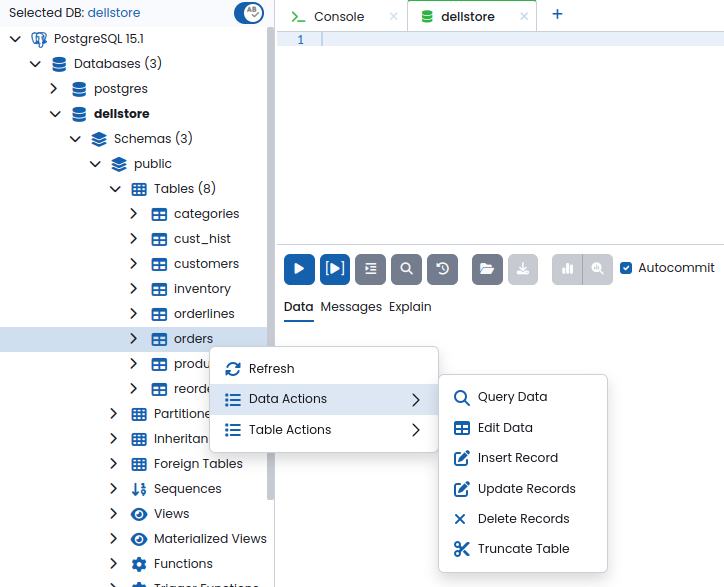
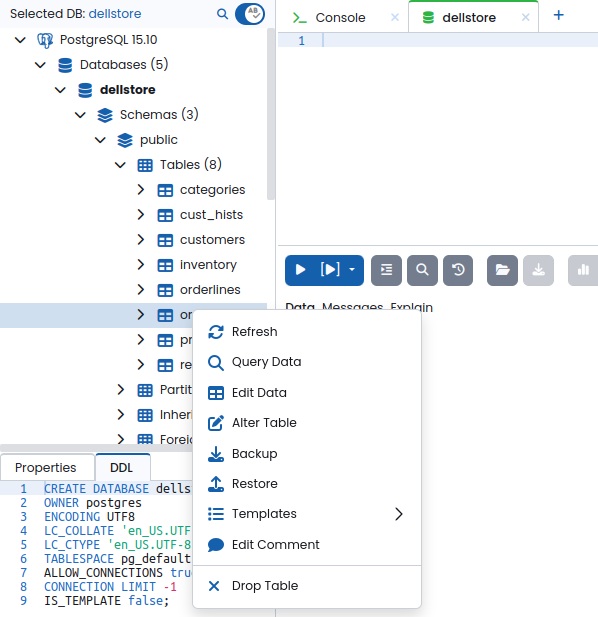
update docs with 1.4.1 features, improve formatting and readability update screenshots where necessary

Changed region(s): [[0.0, 0.0, 1.0, 1.0]]

diff --git a/src/en/03_user_guide.md b/src/en/03_user_guide.md
@@ -4,44 +4,49 @@
 
 ---
 
-## Database Tree and Context Menus
+## Database Explorer and Context Menus
 
-The tree on the left side of workspace displays the objects inside a server once a database session is established.   
+The Database Explorer tree on the left side of workspace displays the objects inside a server once a database session is established.   
 
 Most of tree items have a context menu with a list of actions available for item. The context menu can be accessed by right-clicking on the tree node.
 
 ![Tree context menu when right-clicking on an object](./images/context_menu.png)
 
-> 💡 The properties of currently selected DB object and it's SQL definition are shown in  **Properties/DDL** tabs at the bottom of DB object tree
+> 💡 The properties of currently selected DB object and it's SQL definition are shown in  **Properties/DDL** tabs at the bottom of Database Explorer
+
+The Quick Search feature of the Database Explorer in the Database Explorer allows you to quickly find the necessary item and it in the tree view. The Quick Search dialog can be shown by clicking the magnifying glass icon at the top of Database Explorer or using a hotkey (`Ctrl-P` or `Cmd-P` by default).
+
+Frequently used databases can be pinned to always be shown at the top of Database Explorer. The pin button is revealed by hovering the mouse cursor over the database node.
 
 ## Database Operation Tabs
 
-The area to the right of the Database Tree contains the operation tabs. There are multiple kinds of tabs, the most common are:
-  - Query - used to edit and execute queries against the database, view and export query results and analyze query performance.
-  - Database Console - shows a command line-like interface for the database
-  - Monitoring Dashboard - displays various performance metrics of the database server.
-  - Backends - displays a list of active database connections, allows to terminate a particular back-end.
+The area to the right of the Database Explorer contains the operation tabs. There are several types of tabs, the most common being:
+  - **Query:** used to edit and execute queries, view and export query results and analyze query performance.
+  - **Database Console:** provides a command line interface for the database
+  - **Monitoring Dashboard:** displays various performance metrics of the database server.
+  - **Backends:** displays active database connections and allows you terminate a specific database session.
 
- The tabs listed above can be opened by clicking on the `➕` sign on the tabs panel.
+ The tabs listed above can be opened by clicking on the `➕` sign on the tabs panel. Other tabs like ERD, Schema Editor, Backup, Server Configuration etc.
+ can be opened using context menus of Database Explorer.
 
 ### Query tab
 
-The top area of the tab contains the SQL editor. The toolbar in the middle allows to run most frequently used actions such as running the whole query or its selected part, formatting SQL code, import/export SQL code from files etc. The bottom part of the screen contains the query result data-grid and query plan visualizer (only available for Postgresl).
+The top area of the tab contains the SQL editor. The toolbar in the middle allows you to access frequently used actions such as running the entire query or its selected part, formatting SQL code, import/export SQL code from files etc. The bottom part of the screen displays the query result data-grid and query plan visualizer (available for PostgreSQL only).
 
 ![Query tab overview](./images/query_tab-overview.png)
 
 #### Editing the code
-The query editor suports syntax highlighting code completion, code folding and formatting for most common SQL dialects.  
+The query editor supports syntax highlighting, code completion, code folding, and formatting for most common SQL dialects.  
 
-The code completion operates in live mode by default, providing suggestions as you type. Live completion may be disabled for the current database connection by toggling the `AB` switch on top of the Database Tree. The autocomplete can also be called with a hotkey (`Ctrl-Space`  or `Cmd-Space` by default).
+The code completion operates in live mode by default, providing suggestions as you type.  You can disable live completion for the current connection by toggling the `AB` switch at the top of the Database Explorer. You can also trigger autocomplete manually using a hotkey  (`Ctrl-Space`  or `Cmd-Space` by default).
 
-The code can be auto-formatted either clicking the the **Format SQL** button or with a hotkey (`Alt-S` by default)
+To auto-format your code, click the **Format SQL** button or use the hotkey  (`Alt-S` by default)
 
 >💡 The script in the editor can be saved to a file or loaded from file using the **Save To file** and **Load From File** buttons on the toolbar.  
 >💡 SQL scripts can also be imported by draggine the file to the editor
 
 #### Running the query
-The query can be executed by clicking the `▶` (Run) button on the toolbar.
+The query can be executed by clicking the ` ▶ ` (Run) button on the toolbar.
 The `[▶︎]` (Run Selection) button allows to execute the selected part of the code in the query editor, if no code is selected the code line where the cursor is will be executed. Alternatively, the selected region of the code can be executed via context menu of the editor.
 
 Once query is executed its output will be displayed in the query results data-grid. Query results with more than 50 rows, are loaded in chunks, click `Fetch More` or `Fetch All` respectively to load the next chunk or complete query result; the number of next rows to be fetched can be selected from the drop-down list. 
@@ -49,9 +54,9 @@ Once query is executed its output will be displayed in the query results data-gr
 Query errors returned by the database will be shown as red annotations to the left of the query line which caused error. Hover the mouse pointer over annotation to reveal error details.
 
 #### Working with query results
-The contents of query results data grid can be copied to clipboard. First, select the rows, cells or a region of the grid, then right-click on the selection and choose the corresponding option of the context menu.  
+The contents of query results data grid can be copied to clipboard. First, select the rows, cells or a specific region of the grid, then right-click  the selection and choose the corresponding option from the context menu.  
 
->💡 whole rows or columns can be selected  by clickin on the row number or the column name respectively
+>💡 whole rows or columns can be selected  by clicking on the row number or the column name respectively
 
 ![Query result copy](./images/query-result-copy.png)
 
@@ -93,8 +98,8 @@ The monitoring dashboard displays various database performance metrics in form o
 
 ![Dashboard overview](./images/dashboard-overview.png)  
 
-Displayed widgets can hidden from the dashboard by clicking the `✖` icon of the corresponding widget.  
-Widgets refresh their data periodically. The refresh period of each widget can set by clicking on the current refresh period of the widget and selecting the new option from the drop-down.  
+Displayed widgets can be hidden from the dashboard by clicking the `✖` icon on the corresponding widget.  
+Widgets refresh their data periodically. You can set the refresh period for each widget by clicking its current refresh interval and selecting a new option from the dropdown menu.  
 Widget auto-refresh can be toggled by clicking the `▶/❚❚` button.
 
 Here is a list of widgets available for PostgreSQL database:
@@ -143,15 +148,18 @@ This tab displays the list of active database session processes with information
 
 ## Editing Table Data
 
-Table data can be edited in visual format using the Data Editor module. To open data editor right click on the table node in the database-tree and select `Data actions -> Edit Data` from the context menu.
+Table data can be edited in a visual format using the Data Editor module. To open data editor right click the table node in the Database Explorer and select `Edit Data` from the context menu.
 
 ![Image illustrating how to access the data editor grid](./images/edit_data_light.png)  
 
 A new data editor tab will be shown. By default, the first 10 rows of the query will be fetched with no filters applied.
+Double click a specific cell or press the `Enter` key to edit its value.  
+
+Rows, columns or cell regions can be selected using mouse (click + drag) or keyboard (Shift + arrow keys). Right click the selected regions to reveal  available operations in the context menu.
 
 ### Filtering the data
-Extra data filtering can be applied by either adding filtering criteria visually or by toggling plain SQL input and entering clause manually.
-Click on the funnel button to apply new filter and limit settings.
+Additional data filtering can be applied by either adding filtering criteria visually or by toggling plain SQL input and entering the clause manually.
+Click the funnel button to apply new filter and limit settings.
 ![Visual data filters](./images/data-filter-visual.png)  
 
 ![Manual data filters](./images/data-filter-sql.png)
@@ -162,17 +170,17 @@ Click on the funnel button to apply new filter and limit settings.
 The data editor allows the following changes:
 - **Add a row:** Click on the `➕ icon` on the top-left of table header. The new empty row will be added to the top of the grid.
 - **Delete a row:** Click on the `❌ icon` next to a row will mark it as a candidate for deletion.
-- **Edit cells:** Double-click on a data cell to enter the edit mode, make the changes, click outside the cell to exit from edit mode, hit `Esc` key to discard cell changes.
-- **Revert the Changes**: changed table rows are marked with red and orange colors for deleted and edited rows respectively. You can revert the changes by clicking the revert button to the left of the row.
+- **Edit cells:** Double click a specific cell or press the `Enter` to enter the edit mode, make the changes, click outside the cell or press `Enter` to exit from edit mode, hit `Esc` key to discard cell changes.
+- **Revert the Changes**: changed table rows are marked in red(deleted) and orange(edited) colors. You can revert any change by clicking the `↺` Revert icon to the left of the row.
 
-Once the desired changes are done, click on the `Apply changes`.
+Once the desired changes are complete, click the `Apply changes` to save the data.
 
 ---
 
 ## Creating and Edititng Tables
 Database tables can be created and edited in Schema Editor.
-To create a new table righ-click on the `Tables` node in DB tree and select `➕ Create Table` menu item.  
-To edit an existing table righ-click on it's DB tree node and select `Table Actions -> Alter table` menu item.  
+To create a new table righ-click on the `Tables` node in Database Explorer and select `➕ Create Table` menu item.  
+To edit an existing table right-click its node in Database Explorer and select `Alter table` menu item.  
 
 The schema editor tab will be shown
 ![Schema Editor Tab](./images/schema_editor_new_table.png)
@@ -217,8 +225,8 @@ The snippets can then be used in the query editor by clicking on of the items un
 ## PostgreSQL Role Management
 
 Postgres roles can be created and edited in Role Editor.
-To create a new role righ-click on the `Roles` node in DB tree and select `➕ Create Role` menu item.  
-To edit an existing role righ-click on it's DB tree node and select `Alter Role` menu item.  
+To create a new role righ-click on the `Roles` node in Database Explorer and select `➕ Create Role` menu item.  
+To edit an existing role righ-click on it's Database Explorer node and select `Alter Role` menu item.  
 
 The role editor will be shown:
 
@@ -276,7 +284,7 @@ Right-clicking on a given extension will display a menu with the following optio
 ## SQL Templates
 
 The application automatically creates a template for actions selected in the DB Entity Tree.
-For example, vacuum table template can be created by right-clicking on a table object and selecting `Table Actions → Vacuum table`. For a given table, the following text was generated in a query tab:
+For example, vacuum table template can be created by right-clicking the table node in Database Explorer and selecting `Templates → Vacuum table`. For a given table, the following text was generated in a query tab:
 
 ![Image showing the autogenerated template for an VACUUM query](./images/template1.png)
 
@@ -289,11 +297,11 @@ Then the templated code in the query editor can be adjusted as needed and execut
 
 PgManage has a convenient user interface for Postgres's [pg_dump](https://www.postgresql.org/docs/current/app-pgdump.html), [pg_dumpall](https://www.postgresql.org/docs/current/app-pg-dumpall.html), and [pg_restore](https://www.postgresql.org/docs/current/app-pgrestore.html) set of commands.  
 
-These features can be accessed by selectin **Backup** or **Restore** options from the DB tree context menu of Server Schema or Table nodes.  
+These features can be accessed by selecting the **Backup** or **Restore** options from the context menu of a Server, Schema, or Table node in the Database Explorer.  
 
-The backup and restore operations run as background jobs, allowing to do other tasks in PgManage without interrupting the process. Once the job completes the notification will be shown.
+Backup and restore operations run as background jobs, allowing you to perform other tasks in PgManage without interrupting the process. Once the job completes a notification will appear.
 
-The backup/restore operations are listed under the `Jobs` section. Here, information such as PID, Type, Server, Object, Start Time, Status, Duration, and Actions will be displayed.
+The backup/restore operations are listed under `Jobs` section. This section displays information such as PID, Type, Server, Object, Start Time, Status, Duration, and Actions.
 
 Under the `Actions` column, you may view details about a specific job or delete the job. The information about the job will contain the executed command, the start time, the duration of execution, and the output. The output of currently executing jobs can be viewed live by clicking its View Details icon.
 

diff --git a/src/en/02_quick_start.md b/src/en/02_quick_start.md
@@ -3,6 +3,9 @@
 
 ## Installation
 
+> _**Note:**_ this section describes the installation procedure for the **PgManage Community Edition**.  
+> For AMI or Docker installations, please follow the steps in the [Enterprise Edition](05_enterprise.md) section.
+
 Download the PgManage distribution file for your platform from the [Github Releases Page](https://github.com/commandprompt/pgmanage/releases).
 
 ### Linux
@@ -25,12 +28,12 @@ Run the installer and follow the instructions.
 
 ### Mac
 
-Download PgManage `.dmg` file click on it, a dialog box will appear.  
-Drag the PgManage icon to the **Applications** folder.  
+Download PgManage `.dmg` file and open it, a dialog box will appear.  
+Drag the PgManage icon to your **Applications** folder.  
 
 > _**Note:**_ to install PostgreSQL client utilities, follow the steps in the [Installing Client Utilities on Mac](#installing-client-utilities-on-mac) section.  
-> _**Note:**_ PgManage `.dmg` files are not notarized yet which may prevent them from running on latest OSX releases.  
-A workaround for that is to remove the quarantine attribute from PgManage distrubution file after downloading it by running: `xattr -d com.apple.quarantine ./pgmanage-1.3_mac_x64.dmg` command in terminal (assuming that the .dmg file reside in the current directory).
+_**Note:**_ PgManage `.dmg` files are not yet notarized, which may prevent them from running on recent macOS releases.  
+A workaround for that is to remove the quarantine attribute from PgManage distribution file after downloading it by running: ```xattr -d com.apple.quarantine ./pgmanage-$version_mac_x64.dmg``` command in terminal (assuming that the .dmg file reside in the current directory).
 
 
 ---
@@ -46,25 +49,26 @@ To test that the provided path is correct, you may click the `validate` button w
 
 ![Image of the confirmation message](./images/pgmanage-validate.png)
 
-> _**Note:**_ The autodiscovery of client binaries is not available on Windows. The only way to use the backup and restore features is to manually install the PostgreSQL client utilities and configure binary path manually.
+> _**Note:**_ Autodiscovery of client binaries is not available on Windows. To use the backup and restore features, you must manually install the PostgreSQL client utilities and configure the binary path in the settings.
 
-#### Installing Client Utilities on Windows
+
+#### Installing Client Utilities on Windows  
+
 You may download Windows PostgreSQL installer from [enterprisedb.com](https://www.enterprisedb.com/downloads/postgres-postgresql-downloads).  
 Take note of the installation path where the components will be installed, it will be used below.
 
 ![Image of the PostgreSQL installer asking for an installation path](./images/edb_windows_psql_installer1.png)  
 
-
 When prompted which components to install select `command line tools`. PgManage does not need any other components to operate.
 
 ![Image of the PostgreSQL installer asking what components to install](./images/edb_windows_psql_installer2.png)
 
-Once installation completes, set the binary path in PgManage settings. Click `Validate` to verify that Postgres binare can be found.
+Once installation completes, set the binary path in PgManage settings. Click `Validate` to verify that Postgres binaries can be found.
 
 ![Image of the settings dialog](./images/pgmanage_windows_binaries_validation.png)
 
 
-#### Installing Client Utilities on Linux:
+#### Installing Client Utilities on Linux
 
 Setting up path to PostgreSQL client binaries is usually not necessary for Linux systems because it will be automatically discovered from the $PATH environment variable. Still, there are some cases in which the path autodiscovery may fail:
 
@@ -98,15 +102,10 @@ Once your preferred PostgreSQL’s version is installed you can set the binaries
 
 ---
 
-### Oracle Support
-
-A note about extra dependencies for Oracle support.
-
----
 
 ## Launching the App
 
-When PgManage starts for the first time, it will ask you to set up a master password.  
+When PgManage starts for the first time, it will ask you to set up a master password.*  
 Fill up the provided fields and click the `Set master password` button.  
 
 ![Setting up the master password](./images/master_pass.png)  
@@ -114,7 +113,8 @@ Fill up the provided fields and click the `Set master password` button.
 The Master Password is used to encrypt the sensitive data such as database access credentials, SSH keys etc. and will be requested each time you open the application.  
 
 In case if lost, the Master Password may be reset by clicking the `Reset Master Password` button.
-> _**Note:**_ resetting the master password will erase all the information that was encrypted with it, including database connection credentials.
+> _**Note:**_ resetting the master password will erase all the information that was encrypted with it, including database connection credentials.  
+> _**Note:**_ PgManage Enterprise Edition does not rely on a Master Password for credential protection and will not prompt for one.
 
 
 👋 Welcome to PgManage
@@ -137,16 +137,16 @@ Open the Connection Management window by clicking the ⚡ icon on the sidebar:
 ![Connection Management](./images/connection_mgr.png)
 
 Connections and Connection Groups are shown on the left. Clicking on the left panel items shows the item’s view/edit form.  
-Click on `➕ Add → Connection`. Set the title and connection type; the rest of the form will change depending on the type selected. Fill in the rest of the database connection properties.
+To create a new database connection click on `➕ Add` → `Connection`. Set the title and connection type; the rest of the form will change depending on the type selected. Fill in the rest of the database connection properties.
 
-> _**Note:**_ Alternatively, the connection string may be used to establish a database connection.
+> _**Note:**_ Alternatively, the connection string may be used to establish a database connection.  
+> _**Note:**_ the password field is optional. If you leave it empty, the password prompt will be shown each time when establishing the connection.  
+> For PostgreSQL connections, PgManage will also try to retrieve the connection password from the `.pgpass` file before showing the password prompt.
 
 There are two special connection types, which behave differently from the rest:
 
 - **SQLite connections** do not need any other settings besides the Sqlite3 file path.
 - **Terminal connections** are shell/console sessions with a remote host. These connections require SSH properties to be filled-in.
-
-> **Note:** the password field is optional. If you leave it empty, the password prompt will be shown each time when establishing the connection. For PostgreSQL connections, PgManage will also try to retrieve the connection password from the `.pgpass` file before showing the password prompt.
 
 ### SSH Tunnelling
 
@@ -158,11 +158,11 @@ The connection properties can be validated before saving the connection. To do s
 
 ### Connection Groups
 
-Related connections can be grouped by clicking the `➕ Add` button and selecting the `Group` option. On the `Group` form, enter a name for the new connection group and select the connections to be grouped; click `Save`. You may also group/ungroup a particular connection from the connection edit screen by selecting the corresponding option in the `Group` dropdown.
+Related connections can be grouped by clicking the `➕ Add` button and selecting the `Group` option. In the `Group` form, enter a name for the new connection group and select the connections to be grouped; click `Save`. You may also group/ungroup a particular connection from the connection edit screen by selecting the corresponding option in the `Group` dropdown.
 
 ### Connection Cloning
 
-Connection cloning can be used to create new connection based on existing one. To clone a connection select it on the sidebar and click the `Clone` button. A new conection will be shown up, pre-populated with the properties of the original connection. Adjust connection properties, set a new unique name and click `Save`.
+Connection cloning can be used to create a new connection based on existing one. To clone a connection, select it on the sidebar and click the `Clone` button. A new conection will appear, pre-populated with the properties of the original connection. Adjust connection properties, enter a new unique name and click `Save`.
 
 ---
 
@@ -170,6 +170,6 @@ Connection cloning can be used to create new connection based on existing one. T
 
 You can access existing connections in several ways:
 
-- from the **connections menu** by clicking the ⚡ item on the left sidebar.
-- from the **connection management dialog** by clicking the connection item on the left. Then, click the `Connect` button.
+- from the **connections menu**: click the ⚡ icon on the left sidebar.
+- from the **connection management dialog**: select the connection item on the left, then click the `Connect` button.
 - from the Welcome Screen, by clicking one of the items in Recent Connections section.

diff --git a/src/en/01_introduction.md b/src/en/01_introduction.md
@@ -5,36 +5,42 @@
 PgManage is a modern Open-Source multi-platform graphical database client and administration toolkit.
 
 # Features
-* Multiple Workspaces: connect to and work with multiple databases at once
-* SQL Autocompletion: PgManage suggests completion options as you type. Schema, table, view, function and column completion are supported.
-* Secure Credential Storage: sensitive information such as DB passwords, SSH keys etc. is stored in an encrypted form and protected by Master Password.
-* Postgres Config Management: easily search and tweak your Postgres server configuration parameter using a convenient GUI.
-* Database Backups: back-up and restore your Postgres cluster or database in background while working on other stuff.
-* Visualize: PgManage Supports query plan visualization and entity relationship diagrams.
+* Multiple Workspaces: connect to and work with multiple databases simultaneously.
+* Context-aware SQL code completion: receive intelligent suggestions for tables, views, columns, aliases, and functions as you type.
+* Postgres Server Configugation Management: easily search and fine-tune Postgres server configuration parameters; take and restore configuration snapshots.
+* Database Backups: back-up and restore your Postgres cluster or database in the background without interrupting workflow.
+* Advanced Querying: write SQL with context-aware completion and visualize execution plans to gain performance insights.
+* Data Editor: search and edit database records using a familiar spreadsheet-like interface.
+* Schema Editor: design new tables or modify existing ones with ease.
+* Visual Tools: PgManage supports query execution plan visualization and Entity Relationship Diagrams (ERD).
+* Efficient Navigation: locate and jump to database objects instantly using fuzzy search without the need for manual drill-down.
 * Dark or Light: choose a theme to your taste.
+* Monitoring dashboard: track database performance with built-in real-time graphs or create your own.
 * Connection tunneling: connect to your database servers through SSH tunnels.
-* Monitoring dashboard: view various DB performance graphs in real time or create your own.
 * Built-in SSH terminal.
+* Secure Credential Storage: sensitive data, including passwords, SSH keys etc. is stored in an encrypted form and protected by Master Password.
 
 ## Supported Databases
-
-- PostgreSQL
-- SQLite
-- MySQL
-- MariaDB
-- Oracle
+* PostgreSQL
+* MySQL
+* MariaDB
+* SQLite
+* Oracle
+* Microsoft SQL Server
 
 ## Supported Platforms
 
  - Linux
  - Windows 10 and higher
- - Mac OSX
+ - macOS
  - Web *
-> **Note:** PgManage currently only supports x86_64 architecture. ARM64 support may be added in the future.
-> ***** Web access is supported by PgManage Enterprise only.  
+> **Note:** PgManage currently only supports x86_64 architecture; ARM64 support may be added in the future.  
+> *Web access is supported by PgManage Enterprise only.  
 
 ## Credits
-
-- We proudly leverage all of the great work done by the original (now dormant) project [OmniDB](https://github.com/OmniDB/OmniDB)
-- Postgres query plan visualization is powered by [Dalibo Postgres Explain Visualizer 2](https://github.com/dalibo/pev2)
-- Though now dormant, the [OmniDB](https://github.com/OmniDB/OmniDB) project provided important underlying work for the expansions done on PgManage. OmniDB was a lightweight, browser-based application that supported PostgreSQL, Oracle, MySQL, and SQLite. PgManage continues OmniDB’s legacy by providing a simple, unified interface to manage DBMS.
+PgManage is being developed by [CommandPrompt Inc](https://www.commandprompt.com/).  
+We proudly leverage all of the great work done by the original (now dormant) project [OmniDB](https://github.com/OmniDB/OmniDB).  
+Postgres query plan visualization is powered by [Pev2](https://github.com/dalibo/pev2).  
+SQL query generation is powered by [Knex.js](https://knexjs.org).  
+SQL code completion is powered by [ANTLR](https://www.antlr.org/).  
+Data tables handled by an awesome [Tabulator.js](https://tabulator.info/) library. 